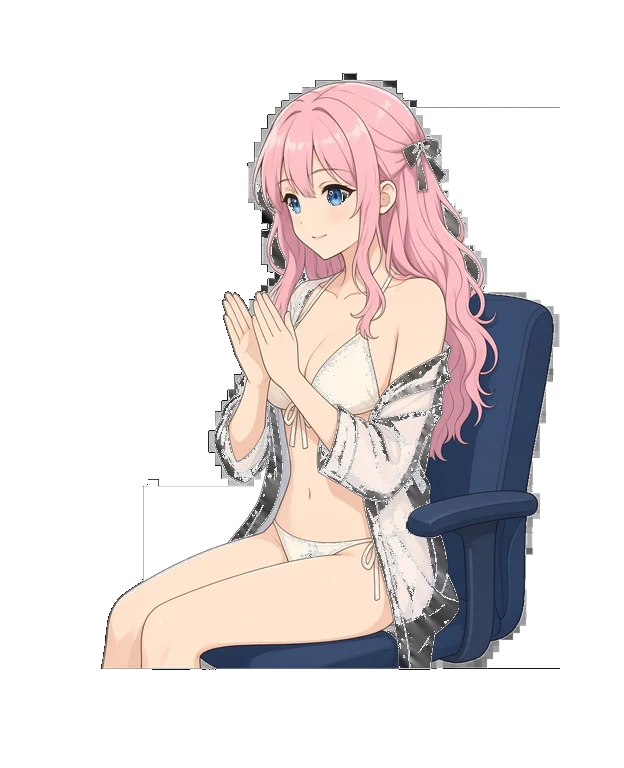
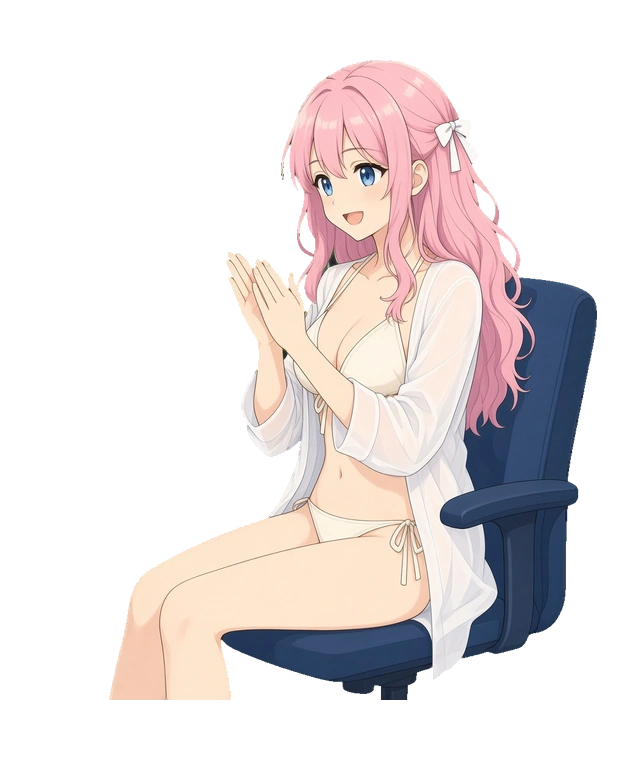
重生乾淨的秘書拍手慶祝立繪，改查白罩衫破洞而不填補髮隙。

Changed region(s): [[0.1522, 0.0625, 0.9744, 0.9375]]

diff --git a/scripts/fix_secretary_status_sprites.py b/scripts/fix_secretary_status_sprites.py
@@ -2,7 +2,10 @@
 """Repair alpha on secretary status sprites and celebrate clap frames.
 
 Removes near-white fringe pixels then inpaints interior holes from opaque neighbors.
-Clap sprites additionally fill interior transparent shirt folds via fill_interior_transparent.
+
+Clap sprites are checked for a clean white cardigan (no enclosed cloth holes) and
+sane size/dimensions/alpha. Natural transparent gaps between hair locks must stay
+open — do not run fill_interior_transparent / fix_clap_sprite on them.
 """
 from __future__ import annotations
 
@@ -46,6 +49,8 @@ REF_WAIST_SPRITE = "secretary-clap-a.webp"
 CLAP_SPRITES = ("secretary-clap-a.webp", "secretary-clap-b.webp")
 CLAP_SIZE_MIN = 35_000
 CLAP_SIZE_MAX = 62_000
+# Sanity cap on all enclosed transparent pixels, including natural hair-lock gaps.
+CLAP_HAIR_GAP_MAX = 2_500
 
 # 比讚跳躍時鍵盤與大腿間的透明腰洞（與 issue 描述列區間對齊）
 CELEBRATE_WAIST_BOX = (552, 590, 80, 126)
@@ -118,6 +123,54 @@ def is_sheet_rgb(r: int, g: int, b: int) -> bool:
 
 def is_brown_rgb(r: int, g: int, b: int) -> bool:
     return (g - b) >= 12 and (r - b) >= 22 and b < 205 and r < 245
+
+
+def is_white_cloth_rgb(r: int, g: int, b: int) -> bool:
+    """Sheer / solid white cardigan (high value, low saturation)."""
+    return r >= 220 and g >= 218 and b >= 210 and (max(r, g, b) - min(r, g, b)) <= 28
+
+
+def cardigan_enclosed_hole_count(
+    alpha: np.ndarray, rgb: np.ndarray, thresh: int = 10
+) -> int:
+    """Count enclosed transparent pixels whose opaque neighbors are white cloth.
+
+    Hair-lock gaps (neighbors are pink hair or skin) are ignored so they can
+    stay transparent. A non-zero count means the white cardigan was punched.
+    """
+    holes = enclosed_holes(alpha, thresh)
+    if not int(holes.sum()):
+        return 0
+    h, w = alpha.shape
+    seen = np.zeros_like(holes)
+    total = 0
+    ys, xs = np.where(holes)
+    for y0, x0 in zip(ys, xs):
+        if seen[y0, x0]:
+            continue
+        q: deque = deque([(int(x0), int(y0))])
+        seen[y0, x0] = True
+        size = 0
+        cloth = 0
+        other = 0
+        while q:
+            x, y = q.popleft()
+            size += 1
+            for nx, ny in ((x - 1, y), (x + 1, y), (x, y - 1), (x, y + 1)):
+                if not (0 <= nx < w and 0 <= ny < h):
+                    continue
+                if holes[ny, nx] and not seen[ny, nx]:
+                    seen[ny, nx] = True
+                    q.append((nx, ny))
+                elif alpha[ny, nx] >= 40:
+                    r, g, b = (int(rgb[ny, nx, 0]), int(rgb[ny, nx, 1]), int(rgb[ny, nx, 2]))
+                    if is_white_cloth_rgb(r, g, b):
+                        cloth += 1
+                    else:
+                        other += 1
+        if cloth > other and cloth >= 4:
+            total += size
+    return total
 
 
 def fill_interior_transparent(
@@ -536,7 +589,13 @@ def check_sprite(path: Path) -> List[str]:
     if int((alpha[border] > 8).sum()) > 0:
         errs.append(f"{path.name}: non-transparent image border")
     holes = interior_hole_count(alpha)
-    hole_limit = 0 if path.name in CLAP_SPRITES else (230 if path.name == "secretary-sleep.webp" else 100)
+    # Clap frames may have enclosed transparent gaps between hair locks; those
+    # must stay open. The tight check is "no holes in the white cardigan".
+    hole_limit = (
+        CLAP_HAIR_GAP_MAX
+        if path.name in CLAP_SPRITES
+        else (230 if path.name == "secretary-sleep.webp" else 100)
+    )
     if holes > hole_limit:
         errs.append(f"{path.name}: {holes} interior enclosed holes (limit {hole_limit})")
     if path.name in CLAP_SPRITES:
@@ -544,6 +603,11 @@ def check_sprite(path: Path) -> List[str]:
         if nbytes < CLAP_SIZE_MIN or nbytes > CLAP_SIZE_MAX:
             errs.append(
                 f"{path.name}: file size {nbytes} bytes (want {CLAP_SIZE_MIN}-{CLAP_SIZE_MAX})"
+            )
+        cloth_holes = cardigan_enclosed_hole_count(alpha, rgb)
+        if cloth_holes > 0:
+            errs.append(
+                f"{path.name}: {cloth_holes} white-cardigan enclosed holes (limit 0)"
             )
     waist = waist_hole_pixels(alpha)
     if waist > 120:
@@ -678,14 +742,19 @@ def _detached_matte_count(alpha: np.ndarray, rgb: np.ndarray, region: np.ndarray
 
 
 def run_fix_clap() -> None:
-    for name in CLAP_SPRITES:
-        path = ASSET_DIR / name
-        if not path.exists():
-            print(f"skip missing {name}", file=sys.stderr)
-            continue
-        im = fix_clap_sprite(Image.open(path))
-        save_webp(im, path)
-        print(f"wrote {name}")
+    """Refuse to rewrite clap sprites.
+
+    fill_interior_transparent / fix_clap_sprite fills hair-lock gaps and
+    sheer-cardigan folds from opaque neighbors, which punched dark-gray
+    blotches into the white cardigan. The regenerated clap frames must be
+    left as-is; use --check instead.
+    """
+    print(
+        "refusing --clap: fix_clap_sprite fills hair gaps and stains the "
+        "white cardigan. Use --check only.",
+        file=sys.stderr,
+    )
+    raise SystemExit(2)
 
 
 def run_fix(extra: bool = False) -> None:
@@ -721,7 +790,7 @@ def main() -> int:
     parser = argparse.ArgumentParser()
     parser.add_argument("--check", action="store_true", help="verify status and clap sprites")
     parser.add_argument("--extra", action="store_true", help="also fix typing-b, wave, yeah")
-    parser.add_argument("--clap", action="store_true", help="repair secretary-clap-a/b.webp")
+    parser.add_argument("--clap", action="store_true", help="disabled: will not rewrite clap sprites (see run_fix_clap)")
     args = parser.parse_args()
     if args.check:
         return run_check()
